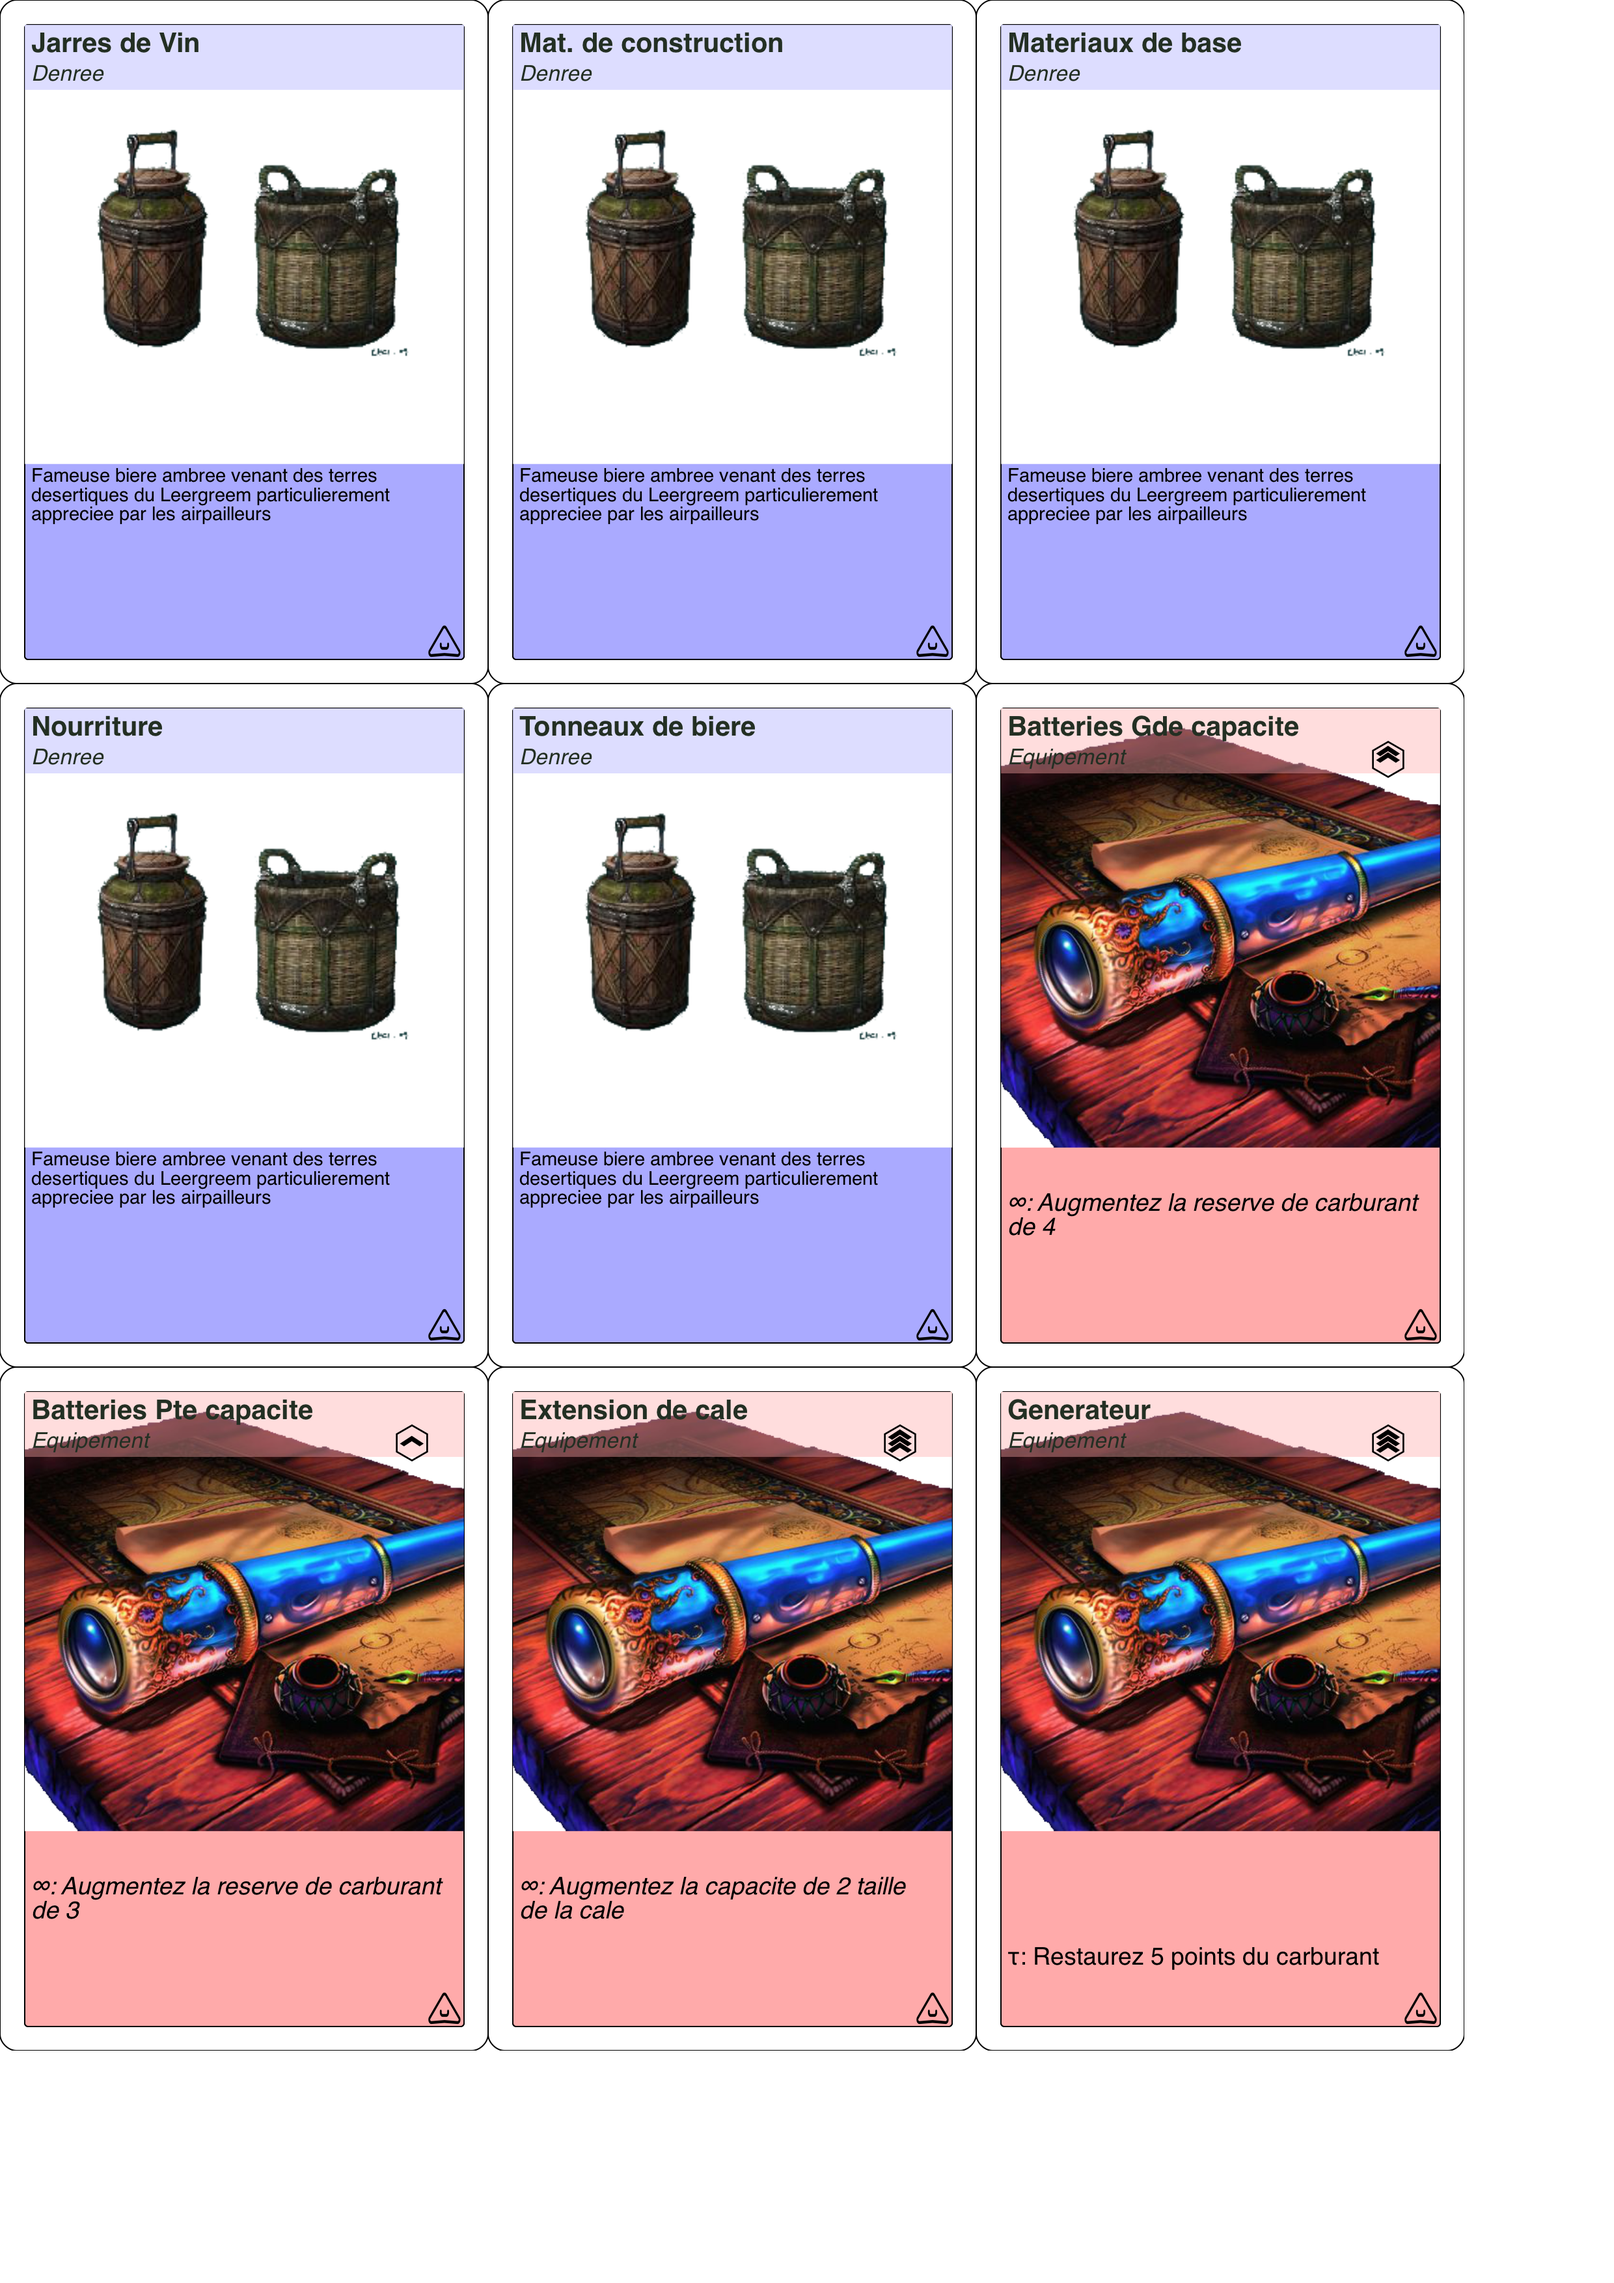
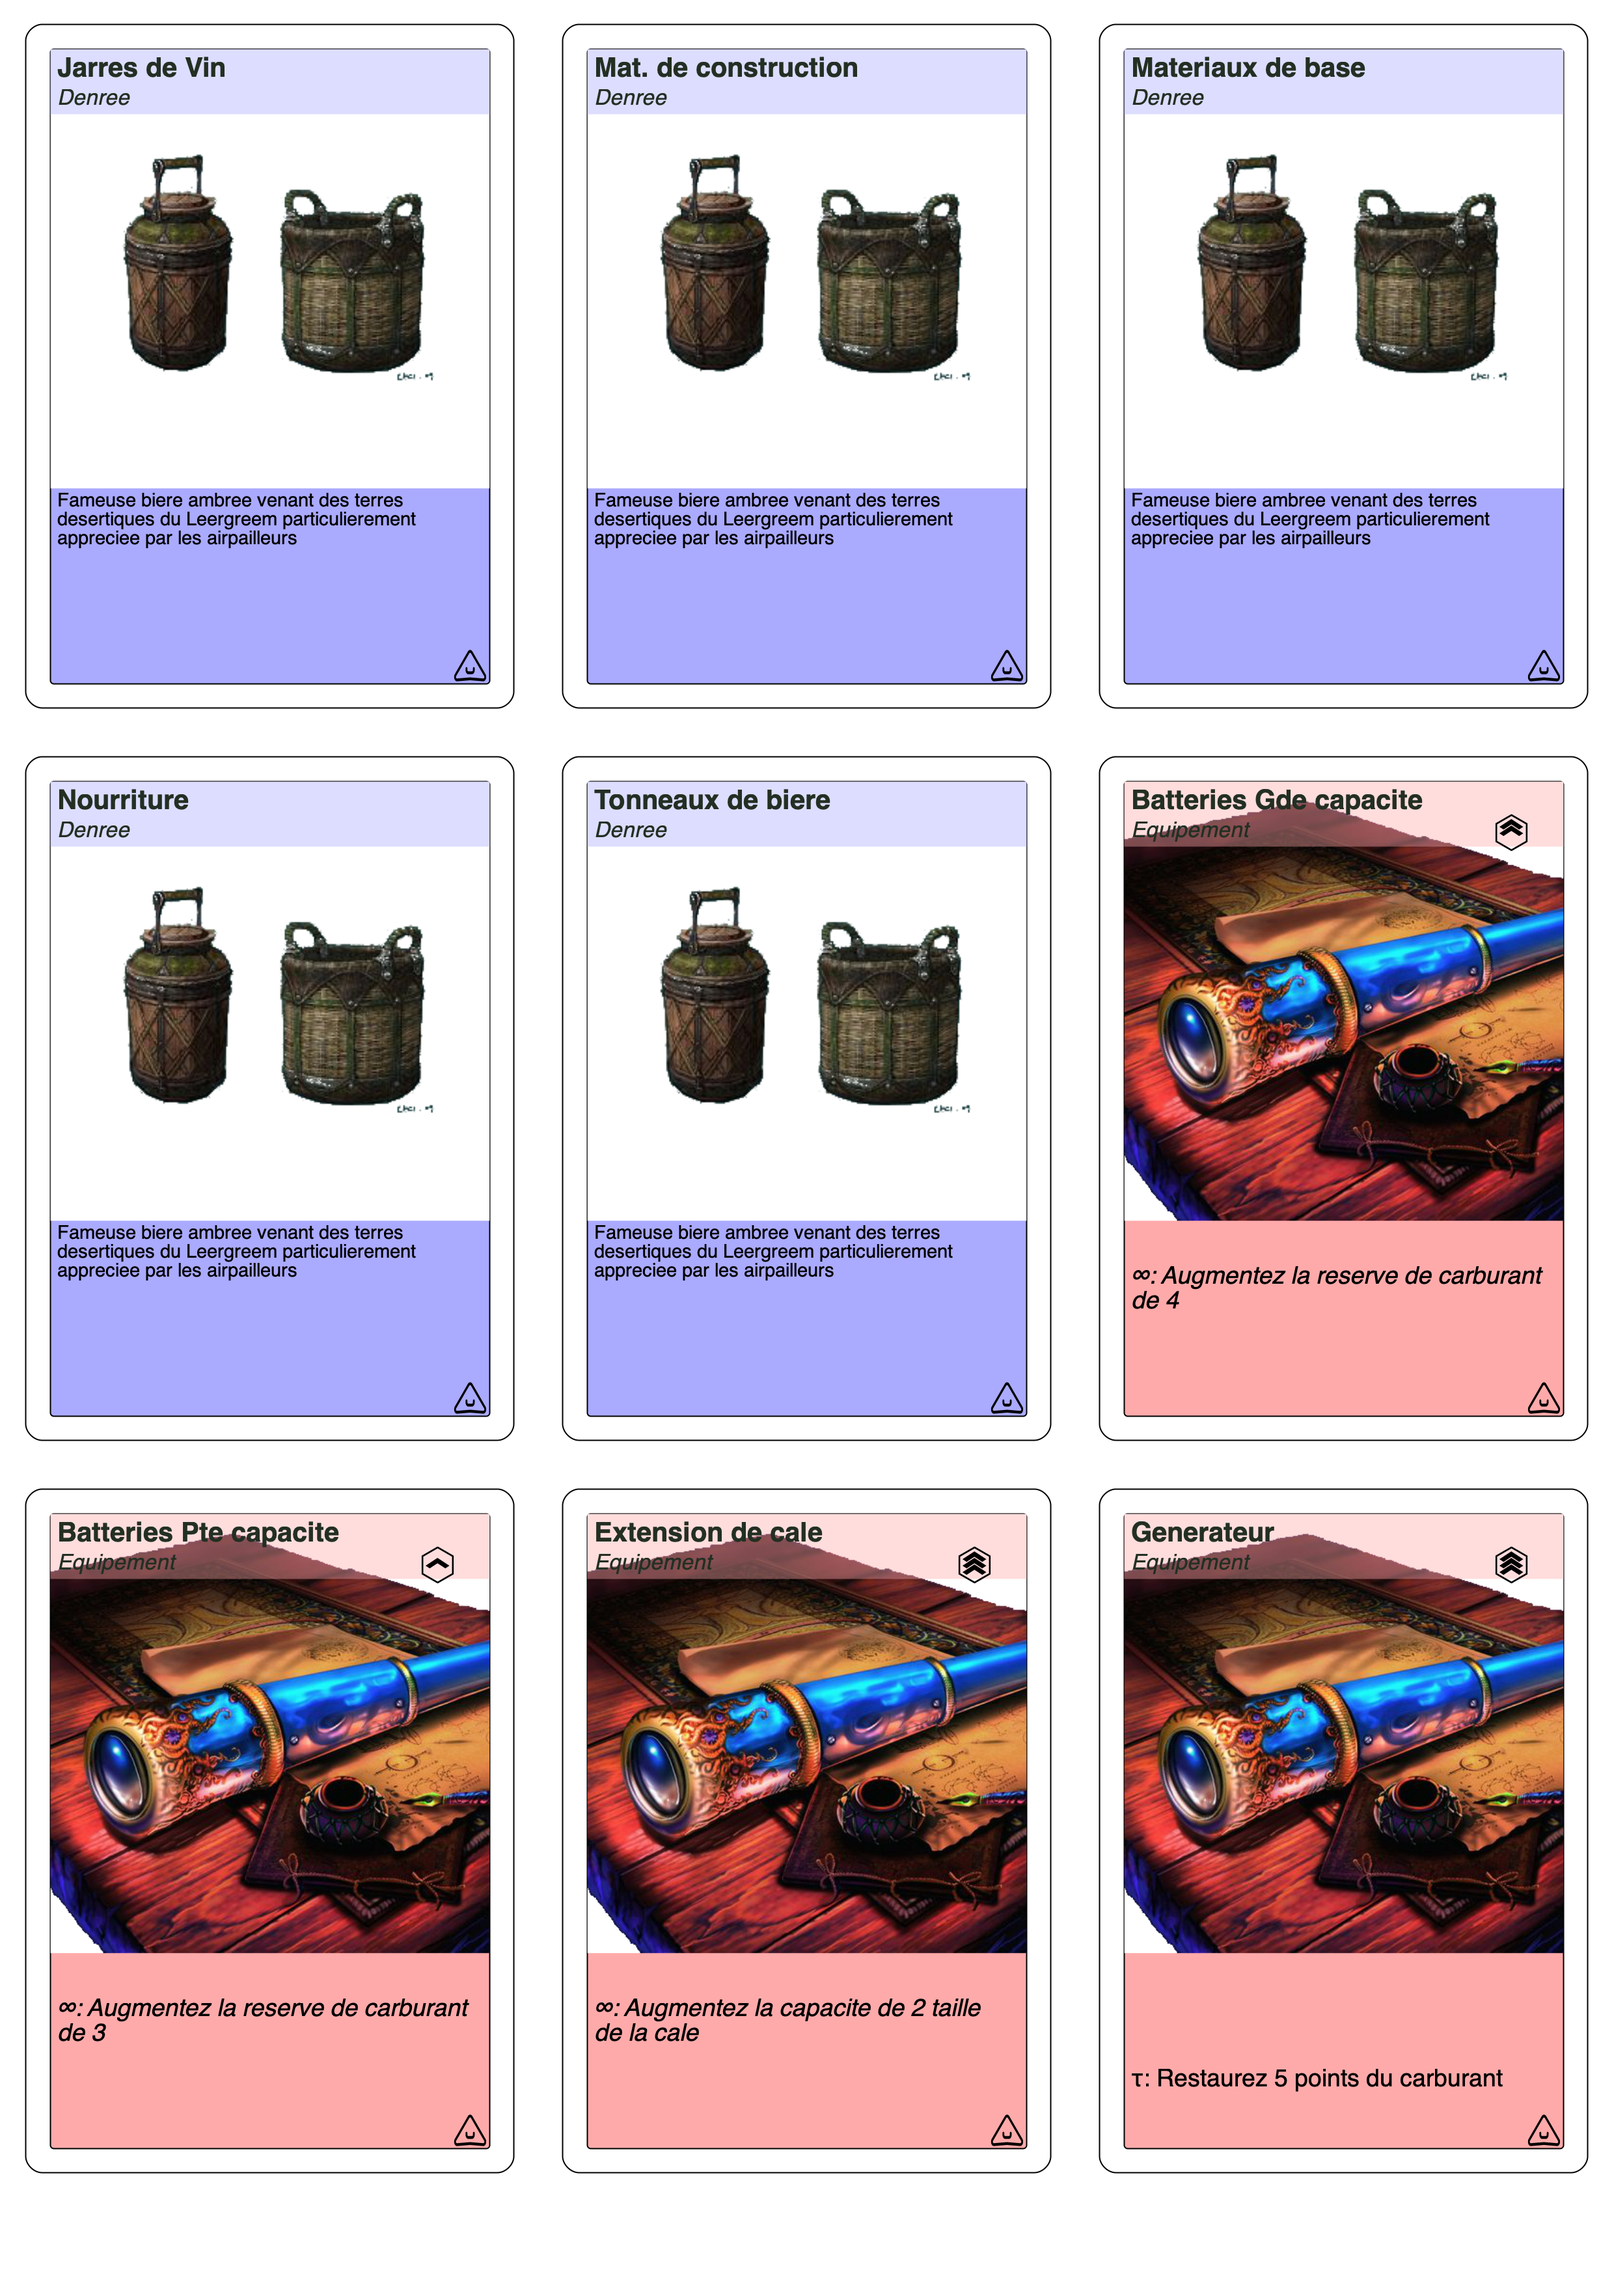
Bug fixes. Some clarifications after a test.

diff --git a/src/main/ruby/land_cards.rb b/src/main/ruby/land_cards.rb
@@ -3,7 +3,7 @@ require 'squib'
 deck = Squib.csv file: %w(src/resources/land_cards.csv)
 
 
-def drawTile(deck, dirname) do
+def drawTile(deck, dirname)
   png file: deck["Image"].map { |img| 
     if (img == nil) 
       "src/resources/terrain/city/_aberlaas.png" 
@@ -70,7 +70,7 @@ def drawTile(deck, dirname) do
 end
 
 
-def drawCutlines(deck, dirname) do  
+def drawCutlines(deck, dirname)  
   polygon layout: :bleed
   polygon layout: :cut
 #  polygon layout: :outline
@@ -80,18 +80,14 @@ end
 
 Squib::Deck.new(cards: deck["Chapter"].size,
                 layout: %w(src/resources/lands-6cm.yml),
-#                layout: %w(src/resources/lands.yml),
                 width: "6.8cm", height: "5.9cm") do 
-#                width: "2.8in", height: "2.5in") do 
 
   drawTile(deck, '_terrain')
 end
 
 Squib::Deck.new(cards: 12,
                 layout: %w(src/resources/lands-6cm.yml),
-#                layout: %w(src/resources/lands.yml),
                 width: "6.8cm", height: "5.9cm") do 
-#                width: "2.8in", height: "2.5in") do 
 
 drawCutlines(deck, '_terrain_cut')
 end

diff --git a/src/main/ruby/gliders_cards.rb b/src/main/ruby/gliders_cards.rb
@@ -57,6 +57,6 @@ end
 
 Squib::Deck.new(cards: deck["Nom"].size,#cards: deck["Name"].size, # cards: 1,#
                 layout: %w(src/resources/Vlayout.yml src/resources/Vcards.yml),
-                width: '2.5in', height: '3.5in') do
+                width: '2.75in', height: '3.75in') do
   drawCards(deck,'_cardsG1')
 end

diff --git a/gliders.md b/gliders.md
@@ -27,15 +27,15 @@ Pour ce faire, il faudra donc des lieux supplementaires, des tuiles terrain supp
 # Principes
 
 ## Le Vent et sa force
-Les Freoles ne sont pas impactes par les des du sol (peut etre les d6 rouges?) et ils ne font face qu'aux informations liees au vent sur les tuiles **terrain**.
+Les Freoles ne sont pas impactes par les des du sol et ils ne font face qu'aux informations liees au vent sur les tuiles **terrain**.
 Les Freoles regardent donc les symboles et les valeurs des chiffres sur le bord des tuiles.
 Lorsqu'un symbole correspond, le vent gagne 1 d6 par symbole. 
-Le vaisseau lancera toujours 6 d6, tout comme les hordiers mais le vent aura toujours moins de d6 que vent.
-Pour permettre aux Gliders d'avoir un vrai challenge, les valeurs de d6 manquant vaudront toujours la force du vent.
-Ainsi, pour un vent de force 6, meme sans d6 impose par le plateau, le vent fera sur chacun de ses d6 "6".
+Le vaisseau lancera toujours 6 d6, tout comme les hordiers mais le vent aura toujours moins de d6 que le vaisseau.
+Pour permettre aux Gliders d'avoir un vrai challenge, le vent exigera que tous ses d6 soient resolus en premier. Si le vent n'a pas autant de d6 que la force du vent, les valeurs de d6 manquant vaudront toujours la force du vent.
+Ainsi, pour un vent de force 4, meme sans d6 impose par le plateau, le vent fera sur chacun de ses 4d6 "4".
 
-Prenons l'exemple d'un navire en case A , un Choon(3) sur cette tuile aurait 1d6 a cause de la case F, + 1d6 de la case B + 1d6 de la case G soit 3d6.
-Ces d6 obeissent aux memes regles que celles de Windwalkers. Ce sont des d6 colores, le navire devra donc faire exactement la meme valeur que ces d6. Les 3 autres valeurs que fera le vent seront des 3.
+Prenons l'exemple d'un navire en case A, un Choon(3) sur cette tuile aurait 1d6 a cause de la case F, + 1d6 de la case B + 1d6 de la case G soit 3d6.
+Ces d6 obeissent aux memes regles que celles de Windwalkers. Ce sont des d6 colores, le navire devra donc faire exactement la meme valeur que ces d6.
 
 ```  
 sens du vent: de bas en haut
@@ -72,14 +72,12 @@ Plus bas, les exemples seront tous pris selon la case A et un navire se dirigean
 
 La direction du vent est capitale car elle influera sur la difficulte de naviguer. Cela sera represente par des bonus ou des penalites de deplacement.
 - **Bon Pre** reduira la difficulte du vent a affronte de 1 en force (il peut y avoir des vents ressentis de force 0)
-<<<<<<< HEAD
-- **Grand Largue** le vent a 1 d6 noir
-- **Vent Arriere** le vent a 2 d6 noir
-=======
-- **Grand Largue** n'a aucun effet 
-- **Vent Arriere** le vent a un d6 noir
->>>>>>> dd984fa... First printable version of cards for Gliders -> testing soon
+- **Grand Largue** le vent a 1 d6 noir || n'a aucun effet 
+- **Vent Arriere** le vent a 2 d6 noir || le vent a un d6 noir
 - **Vent Debout** le vent a +1 en force (il peut y avoir des vents ressentis de force 7)
+
+Pour identifier le sens du vent, placez le jeton du vent a l'emplacement de la valeur du vent sur la tuile. Le vent soufflera vers ce point.
+![position_du_vent]
 
 ## L'Exploration
 Au cours de la partie, votre navire va se deplacer sur le plateau afin d'accomplir certaines missions.
@@ -89,11 +87,8 @@ D'un point de vue "roleplay", vos voiles seront representees par les d6 que vous
 Un navire s'arrete quand il le desire ou quand il n'a plus de carburant. Si vous devez vous arreter pendant que vous affrontez un vent, vous perdrez une piece d'equipement ou une partie de votre cargaison.
 
 Lorsqu'un navire se pose, il recupere tout son carburant et passe son tour. Sinon, le navire avance et joue tant qu'il le peut/le veut.
-<<<<<<< HEAD
 
 Un vaisseau qui n'a pas la capacite de passer un vent puissant doit jeter un element en soute pour avoir le droit d'affronter le vent.
-=======
->>>>>>> dd984fa... First printable version of cards for Gliders -> testing soon
 
 # Capacites possible du Navire
 Un navire commence avec une certaine capacite de soute et de capacite deplacement.
@@ -140,3 +135,4 @@ Une fois accomplie votre mission, rajoutez une carte equipement en ville.
 En fin de chapitre, chaque mission remplie rapporte autant de points que son grade. Les missions grade 1 rapportent donc 1 point, les 2 rapportent 2 points et les 3 rapportent 3 points.
 
 
+[position_du_vent]: src/resources/readme/gliders_vent.png
